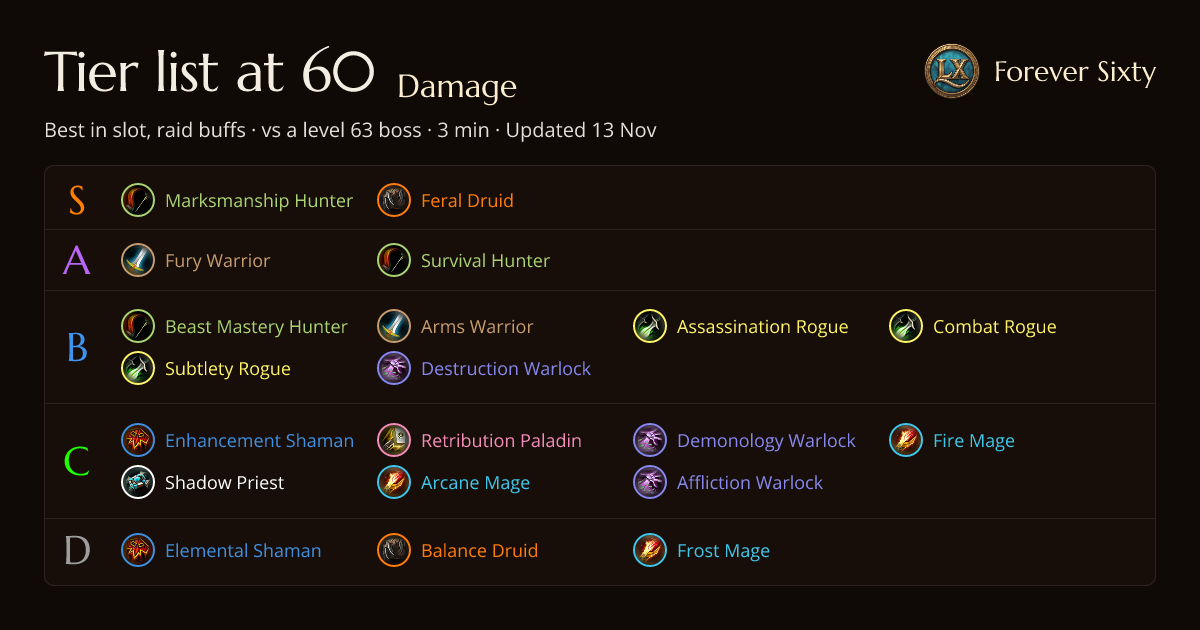
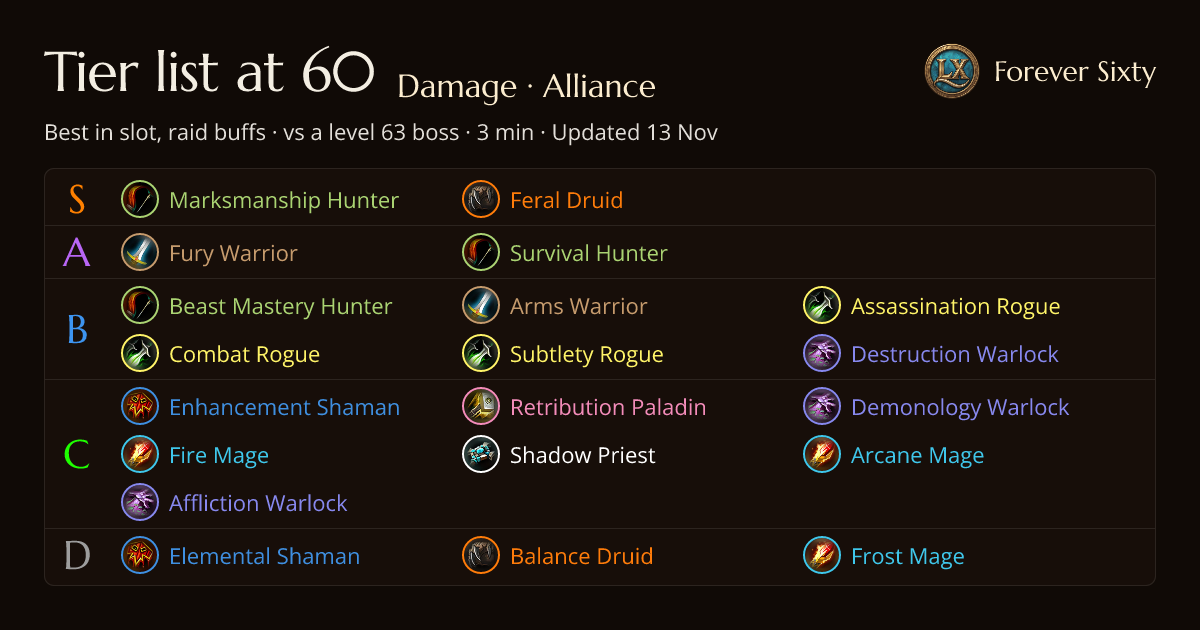
fix(web): tier share card review round: three to a line at phone size, the faction, the tank and healer figures
Claude-Session: https://claude.ai/code/session_01Wrtayzxz2jvhjren4pWihn

diff --git a/web/src/lib/og-tier.ts b/web/src/lib/og-tier.ts
@@ -44,12 +44,13 @@ const PANEL = {
 const PAD = 44;
 const LETTER_WIDTH = 64;
 const CELL_GAP = 10;
-const CREST_PX = 34;
-const NAME_PX = 18;
+const CREST_PX = 38;
+const NAME_PX = 22;
 /** A ranked list (tanks, healers: a handful of rows, no letters) draws one spec a row, larger. */
 const RANKED = { crest: 52, name: 30, rankWidth: 64 } as const;
-/** Specs per strip line: four keep the longest name ("Beast Mastery Hunter") on one line. */
-const PER_LINE = 4;
+/** Specs per strip line: three keep the longest name ("Beast Mastery Hunter") on one line at a
+ *  size a phone preview can read. */
+const PER_LINE = 3;
 const LIST_WIDTH = OG_SIZE.width - PAD * 2;
 /** The list's inner padding beside the cells. */
 const CELLS_PAD = 12;
@@ -83,7 +84,7 @@ function crestImage(slug: string, uri: string, px: number): unknown {
 }
 
 async function specCell(spec: TierCardSpec): Promise<unknown> {
-  return box({ alignItems: 'center', gap: CELL_GAP, width: CELL_WIDTH, height: CREST_PX + 8 }, [
+  return box({ alignItems: 'center', gap: CELL_GAP, width: CELL_WIDTH, height: CREST_PX + 10 }, [
     crestImage(spec.classSlug, await crestUri(spec.classSlug), CREST_PX),
     text(NAME_PX, classColour(spec.classSlug), spec.name, { whiteSpace: 'nowrap' }),
   ]);
@@ -104,11 +105,12 @@ async function letterStrip(
     box({ width: LETTER_WIDTH, alignItems: 'center', justifyContent: 'center', flexShrink: 0 }, [
       text(40, tokenValue(LETTER_TOKEN[letter]), letter, { fontFamily: 'Marcellus' }),
     ]),
-    box({ flexWrap: 'wrap', alignContent: 'center', padding: `6px ${CELLS_PAD}px`, flexGrow: 1 }, cells),
+    box({ flexWrap: 'wrap', alignContent: 'center', padding: `2px ${CELLS_PAD}px`, flexGrow: 1 }, cells),
   ]);
 }
 
-/** One spec's row on a ranked list: its rank as the page prints it, its crest and its name. */
+/** One spec's row on a ranked list: its rank as the page prints it, its crest, its name and the
+ *  figure the list is sorted on. */
 async function rankedRow(spec: TierCardSpec, last: boolean): Promise<unknown> {
   return box(
     { alignItems: 'center', gap: 18, borderBottom: rule(last), flexGrow: 1, padding: `0 ${CELLS_PAD}px` },
@@ -118,7 +120,8 @@ async function rankedRow(spec: TierCardSpec, last: boolean): Promise<unknown> {
         justifyContent: 'center',
       }),
       crestImage(spec.classSlug, await crestUri(spec.classSlug), RANKED.crest),
-      text(RANKED.name, classColour(spec.classSlug), spec.name),
+      text(RANKED.name, classColour(spec.classSlug), spec.name, { flexGrow: 1 }),
+      text(RANKED.name - 4, PANEL.text, spec.figure ?? '', { paddingRight: CELLS_PAD }),
     ],
   );
 }
@@ -149,7 +152,7 @@ async function head(model: TierCardModel): Promise<unknown> {
         text(28, INK.cream2, OG_BRAND, { fontFamily: 'Marcellus' }),
       ]),
     ]),
-    text(20, PANEL.text, model.meta),
+    text(22, PANEL.text, model.meta),
   ]);
 }
 

diff --git a/web/src/lib/tiers/tier-card.ts b/web/src/lib/tiers/tier-card.ts
@@ -6,7 +6,7 @@ import { createHash } from 'node:crypto';
 import type { BisRole } from '../bis/types';
 import { updatedLabel } from '../dates';
 import { DEFAULT_FACTION } from './tier-controls';
-import { ROLE_TABS, specFullName, tiersCopy } from './tier-copy';
+import { FACTION_LABELS, ROLE_TABS, formatMetric, specFullName, tiersCopy } from './tier-copy';
 import { groupByTier, roleHasTiers, type TierRow } from './tier-list';
 import type { TierData } from './tier-load';
 import type { TierLetter } from './tier-rules';
@@ -17,6 +17,8 @@ export interface TierCardSpec {
   classSlug: string;
   /** The row's rank as the page prints it ("2", "=2"); the damage list leads with its letter instead. */
   rank: string;
+  /** The sorted figure with its column's unit ("812.3 HPS"), on a ranked list only. */
+  figure?: string;
 }
 
 export interface TierCardGroup {
@@ -27,7 +29,7 @@ export interface TierCardGroup {
 
 export interface TierCardModel {
   title: string;
-  /** "Damage", "Tanks", "Healers": the page's role tab. */
+  /** "Damage · Alliance": the page's role tab and the faction its numbers are for. */
   role: string;
   /** "Best in slot, raid buffs · vs a level 63 boss · 3 min · Updated 12 Nov" */
   meta: string;
@@ -37,15 +39,23 @@ export interface TierCardModel {
 /** The hash length of the card's cache-busting query: enough to never collide across deploys. */
 const VERSION_LENGTH = 10;
 
+/** The figure column's head, which names its unit ("HPS", "Taken / s"). */
+const FIGURE_HEAD = 4;
+
 function cardSpec(row: TierRow): TierCardSpec {
   return { name: specFullName(row), classSlug: row.classSlug, rank: tiersCopy.rankLabel(row) };
+}
+
+function rankedSpec(row: TierRow): TierCardSpec {
+  const unit = tiersCopy.heads[row.role][FIGURE_HEAD];
+  return { ...cardSpec(row), figure: `${formatMetric(row.role, row.metric)} ${unit}` };
 }
 
 export function tierCardModel(data: TierData, role: BisRole): TierCardModel {
   const rows = data.lists[DEFAULT_FACTION][role];
   const groups: TierCardGroup[] = roleHasTiers(role)
     ? groupByTier(rows).map((group) => ({ letter: group.letter, specs: group.rows.map(cardSpec) }))
-    : [{ letter: null, specs: rows.map(cardSpec) }];
+    : [{ letter: null, specs: rows.map(rankedSpec) }];
   const meta = tiersCopy.metaLine({
     role,
     healerBasis: data.healerBasis,
@@ -55,7 +65,7 @@ export function tierCardModel(data: TierData, role: BisRole): TierCardModel {
   const updated = data.updated === null ? '' : updatedLabel(data.updated);
   return {
     title: tiersCopy.title,
-    role: ROLE_TABS[role],
+    role: `${ROLE_TABS[role]} · ${FACTION_LABELS[DEFAULT_FACTION]}`,
     meta: updated === '' ? meta : `${meta} · ${updated}`,
     groups,
   };

diff --git a/web/src/lib/tiers/tier-card.test.ts b/web/src/lib/tiers/tier-card.test.ts
@@ -29,7 +29,7 @@ describe('tierCardModel', () => {
     );
     expect(model.groups.flatMap((g) => g.specs).length).toBe(data.lists.alliance.dps.length);
     expect(model.title).toBe('Tier list at 60');
-    expect(model.role).toBe(ROLE_TABS.dps);
+    expect(model.role).toBe(`${ROLE_TABS.dps} · Alliance`);
   });
 
   it('carries the page meta line and the Updated stamp', () => {
@@ -44,6 +44,7 @@ describe('tierCardModel', () => {
       expect(group?.letter).toBeNull();
       expect(group?.specs.map((s) => s.name)).toEqual(data.lists.alliance[role].map(specFullName));
       expect(group?.specs.map((s) => s.rank)).toEqual(data.lists.alliance[role].map(tiersCopy.rankLabel));
+      expect(group?.specs.every((s) => /\d/.test(s.figure ?? ''))).toBe(true);
     }
   });
 

diff --git a/web/src/layouts/Base.test.ts b/web/src/layouts/Base.test.ts
@@ -19,6 +19,14 @@ describe('Base layout', () => {
     expect(html).toContain('<main>body</main>');
   });
 
+  it('versions a data-drawn card so a new card is a new URL', async () => {
+    const container = await createPageContainer();
+    const html = await container.renderToString(Base, {
+      props: { title: 'Tier list', description: 'x', path: '/tiers', ogVersion: 'abc123' },
+    });
+    expect(html).toContain('content="https://foreversixty.gg/og/tiers.png?v=abc123"');
+  });
+
   it('keeps og:title in step with the title and names the site', async () => {
     const container = await createPageContainer();
     const html = await container.renderToString(Base, {

diff --git a/design/reviews/2026-11-13-tier-share-card/ux-designer.md b/design/reviews/2026-11-13-tier-share-card/ux-designer.md
@@ -1,0 +1,18 @@
+# Tier share card review, ux-designer, 2026-11-13
+
+Verdict: FIX (DPS card only; tank and healer ship as is)
+
+Checked at 500 px wide (scale 0.417). Title 60 px renders at 25 px: legible. Spec names on the DPS card are about 18 px, so about 7.5 px at preview size: not legible. The tier letters (36 px, about 15 px) and the crests read fine.
+
+## Must fix
+1. DPS spec names: 18 px to 24 px, weight 500. Target at least 10 px in the preview.
+2. DPS grid: 4 columns to 3 columns, each about 340 px wide. B and C become 2 rows of 3. The longest name, "Enhancement Shaman", is about 235 px at 24 px and fits.
+3. DPS crests: 32 px to 40 px, with a 10 px gap to the name. Row pitch is 60 px (7 rows in about 420 px).
+4. Meta line: 20 px to 24 px, colour to the muted-text token at 0.85 opacity or brighter. Shorten the DPS line to "Best in slot, raid buffs · level 63 boss · 3 min · 13 Nov".
+5. "Damage" suffix: 30 px to 34 px, baseline-aligned with the title (keep), colour to --text-muted so it reads as secondary to the 60 px title.
+
+## Nice to have
+- Healer fight length is "110 s" and DPS is "3 min". Use one unit format. The tank card has no fight length.
+- Tank rows are 138 px tall with empty space on the right. Add the sim score bar or a role icon.
+- Tier C green looks neon next to the muted palette. Use the site's quality-green token.
+- Panel top margin (165 px) is tight to the meta line. Add 8 px.

diff --git a/design/reviews/2026-11-13-tier-share-card/wow-player.md b/design/reviews/2026-11-13-tier-share-card/wow-player.md
@@ -1,0 +1,14 @@
+# wow-player verdict: tier share cards (DPS primary, tank, healer)
+
+Verdict: FIX (small). Reads instantly as a tier list. Spec names, class colours and crests are right. The S/A/B/C/D rows are clear on a Reddit scroll.
+
+Must-fix:
+1. Faction is missing. The numbers are Alliance-only, and Horde commenters will say so. Add "Alliance" to the subtitle line on all three cards.
+2. Fight length is shown in two units: DPS says "3 min", healers say "110 s". Use one unit, and say what it is: "3 min fight" and "110 s fight". Healers also drop "vs a level 63 boss", so the cards disagree about what was measured.
+3. Healer "=1" ties are unexplained. Name the metric on the card ("ranked by HPS" or whatever the page uses). Otherwise Reddit reads "=1" as a typo.
+4. The two Priest healers share one crest, as do the two Paladin specs, the three Druid specs and the three Hunter specs. The text carries it, so this is low risk. Do not claim spec icons in the post.
+5. The order inside a tier is unstated. Add "Same tier: alphabetical" or "ordered by DPS" to the subtitle, or players will argue about Marksmanship vs Feral in S.
+
+Data to check (accuracy reviewer): Frost Mage, Elemental and Balance in D; Survival A because it is melee in Forever; Shadow Priest in C.
+
+Tank card: only three rows, so it looks empty. Acceptable.

diff --git a/design/reviews/2026-11-13-tier-share-card/ai-slop-reviewer.md b/design/reviews/2026-11-13-tier-share-card/ai-slop-reviewer.md
@@ -1,0 +1,16 @@
+# ai-slop-reviewer: tier share cards, 2026-11-13
+
+Verdict: FIX (3 small items; the DPS card itself is close to SHIP)
+
+First impression: reads as made by a player. The list is the content, class-coloured names with real crests, no hero slogan, no glow, no gradient, no stat tiles.
+
+Must fix
+1. Meta units disagree across cards: DPS "3 min", healers "110 s". Pick one unit for fight length. Healers also drop "vs a level 63 boss" and tanks drop the length, so the three cards read as three different tests. Same line everywhere, or drop the clause where it does not apply.
+2. Tank and healer cards are thin (tell 16/19 adjacent): 3 to 5 rows of one name each in 30px type, with the right 60% of the panel empty. Add the number the ranking is built on (DPS/HPS/threat, bare number with its unit) right-aligned, or size the panel to its content.
+3. Tier C letter is pure #00ff00 green (uncommon token) and clashes with everything else on the DPS card. Use the page's text-safe uncommon tone if one exists; the S/A/B letters already use the readable variants.
+
+Authentic, keep
+- Marcellus brand title plus real seal, no tagline.
+- Letter-led strips, ragged wrapped rows, "=1" ties, "Feral Druid (Bear)".
+- Border/fill by role, class colours from tokens.
+- No pills, eyebrows, emoji, glassmorphism or gradients.

diff --git a/design/reviews/2026-11-13-tier-share-card/round-1-fixes.md b/design/reviews/2026-11-13-tier-share-card/round-1-fixes.md
@@ -1,0 +1,13 @@
+# Tier share card, round 1 fixes
+
+Applied from the ux-designer, wow-player and ai-slop-reviewer verdicts:
+
+- Damage card: three specs a line, names 22 px, crests 38 px, meta line 22 px.
+- Every card names its faction beside the role ("Damage · Alliance"): the numbers are Alliance's, the page default.
+- Tank and healer rows carry the figure they are sorted on, with the page's column unit (HPS, Taken / s).
+
+Kept as the page has them (the card repeats the page, it never restates it differently):
+
+- The meta line per role ("3 min", "110 s", the tank line without a length) is tiersCopy.metaLine.
+- Tier C is the uncommon quality green, as the page's letter is (TIER_LETTER_TONES).
+- Order inside a tier is by DPS, as on the page.
